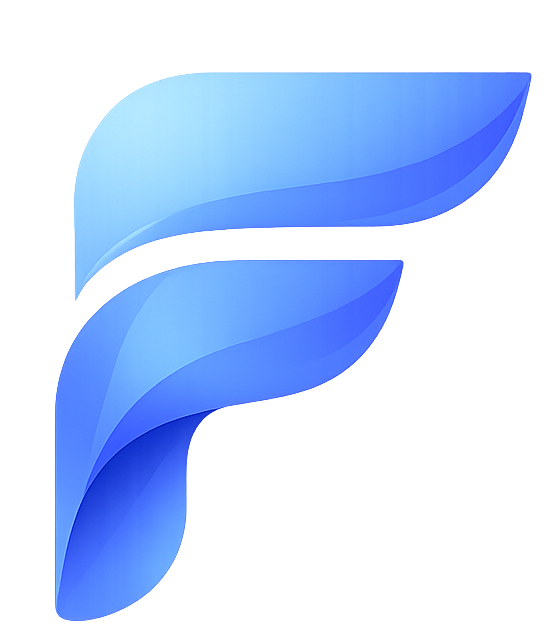
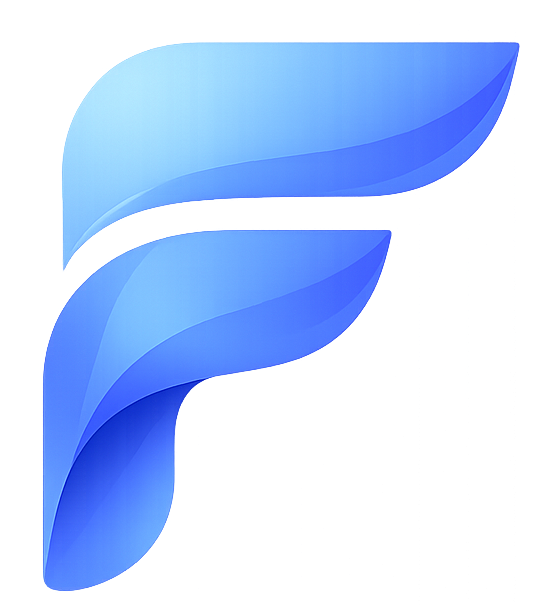
Fix admin loan redirect

diff --git a/lib/card.ts b/lib/card.ts
@@ -24,7 +24,7 @@ export function getVirtualCard(user: VirtualCardUser) {
   const rawNumber = digitsFromText(`${user.id}${user.email}`, 16);
   const cvv = digitsFromText(`${user.email}${user.id}`, 3);
 
-  const expiryDate = new Date(user.createdAt);
+  const expiryDate = new Date(user.createdAt || new Date());
   expiryDate.setFullYear(expiryDate.getFullYear() + 3);
 
   const month = String(expiryDate.getMonth() + 1).padStart(2, "0");
@@ -32,11 +32,11 @@ export function getVirtualCard(user: VirtualCardUser) {
 
   return {
     number: formatCardNumber(rawNumber),
-    maskedNumber: `•••• •••• •••• ${rawNumber.slice(-4)}`,
+    maskedNumber: `**** **** **** ${rawNumber.slice(-4)}`,
     expiry: `${month}/${year}`,
     cvv,
-    maskedCvv: "•••",
-    holder: user.fullName.toUpperCase(),
+    maskedCvv: "***",
+    holder: (user.fullName || "FLUIDO CUSTOMER").toUpperCase(),
     status: user.emailVerified ? "Active" : "Pending",
     brand: "VISA",
     network: "VISA",

diff --git a/components/app/AppHeader.tsx b/components/app/AppHeader.tsx
@@ -48,8 +48,8 @@ export default function AppHeader() {
           <Image
             src="/logo.png"
             alt="Fluido Credit"
-            width={46}
-            height={46}
+            width={170}
+            height={56}
             priority
             className="rounded-xl"
           />

diff --git a/app/api/admin/loans/update-status/route.ts b/app/api/admin/loans/update-status/route.ts
@@ -170,7 +170,7 @@ export async function POST(req: Request) {
       },
     });
 
-    return NextResponse.redirect(new URL("/admin/loans", req.url));
+    return NextResponse.redirect("https://fluidocredit.com/admin/loans");
   } catch (error) {
     console.error("ADMIN_LOAN_STATUS_ERROR:", error);
 

diff --git a/components/app/MobileBottomNav.tsx b/components/app/MobileBottomNav.tsx
@@ -12,7 +12,7 @@ import {
 
 const items = [
   { label: "Home", icon: Home, href: "/dashboard" },
-  { label: "Loans", icon: Landmark, href: "/loans" },
+  { label: "Loans", icon: Landmark, href: "/loans/apply" },
   { label: "Cards", icon: CreditCard, href: "/cards" },
   { label: "Activity", icon: Activity, href: "/transactions" },
   { label: "Profile", icon: UserRound, href: "/profile" },